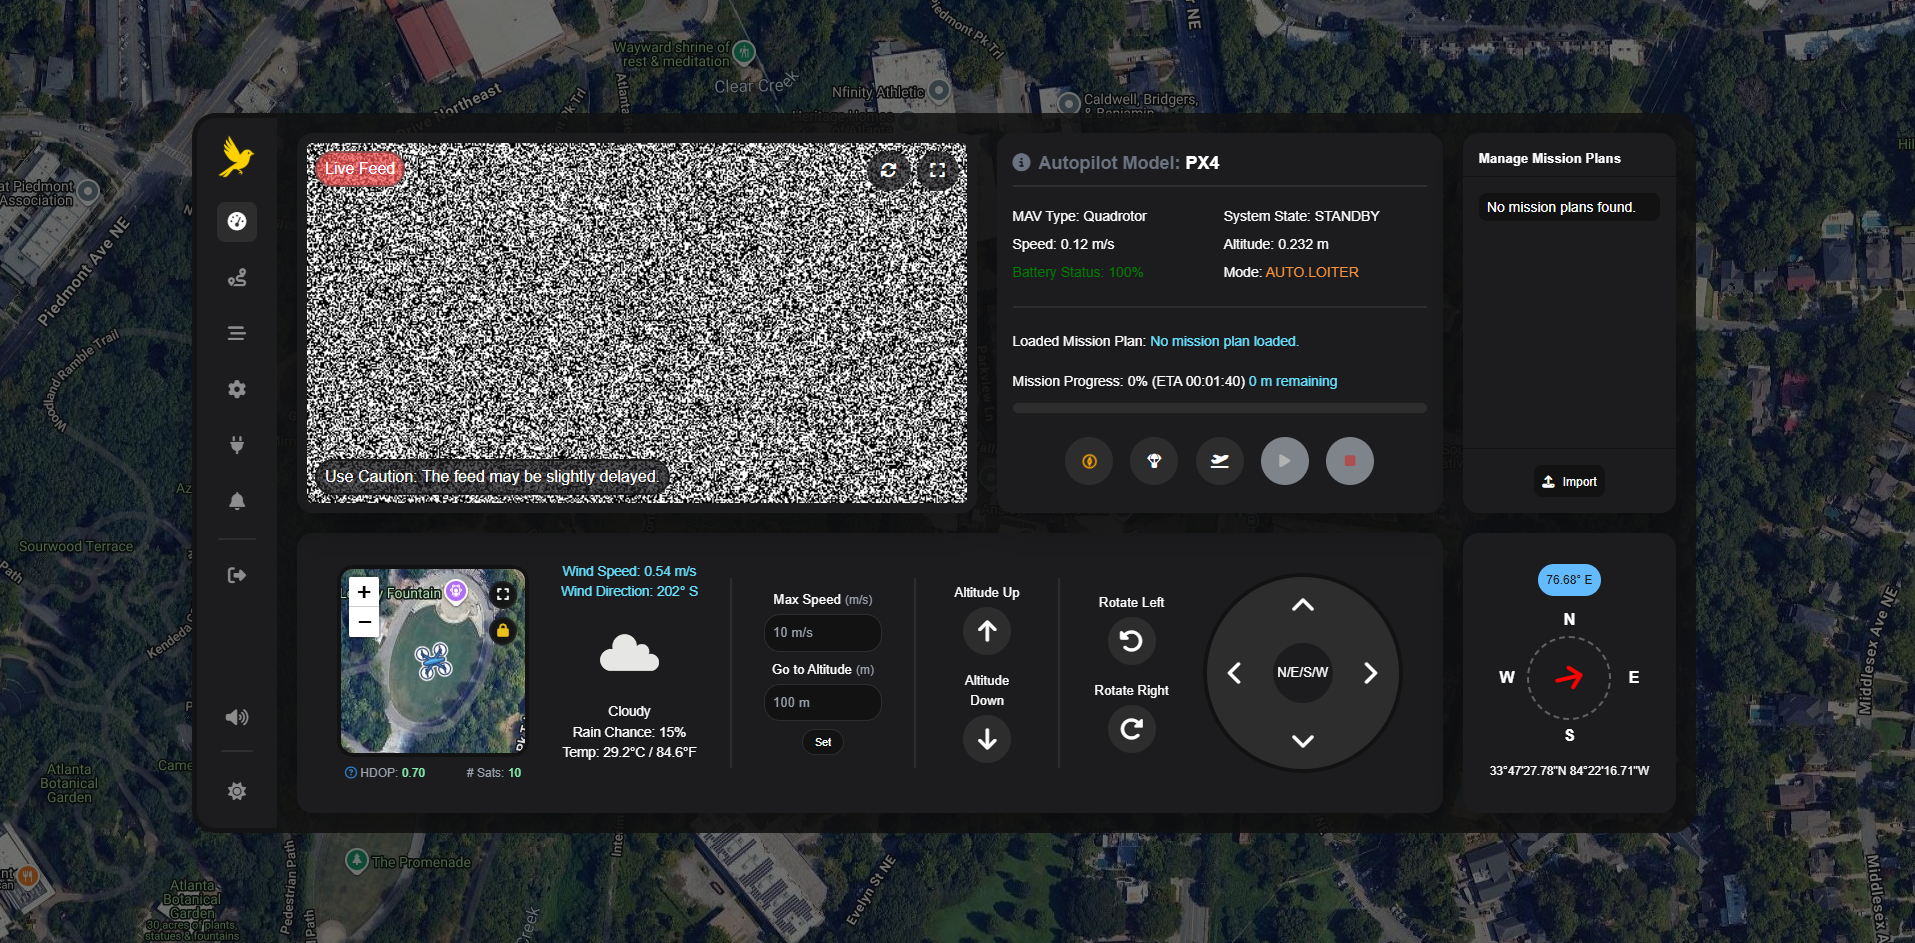
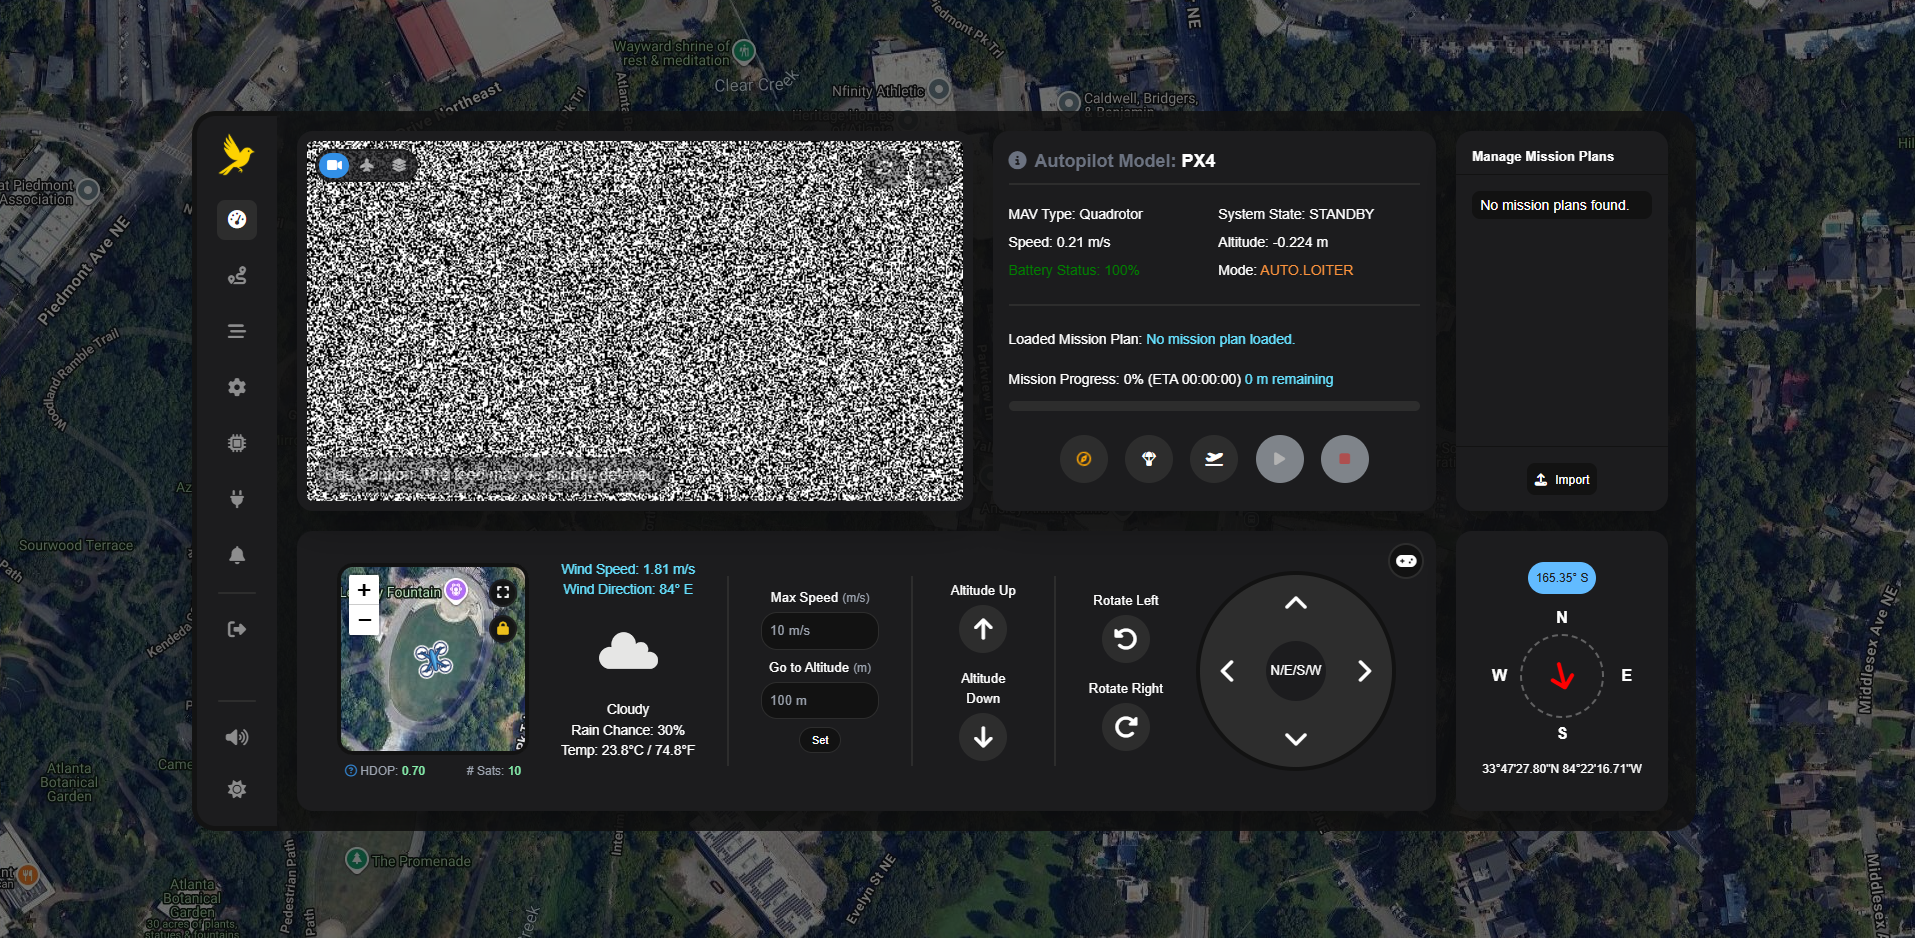
docs(readme): streamline features, add a TLDR, link the build guide
The intro carries a one-line TLDR under the dashboard image and a link to the hardware build guide under the how-it-works diagram. The features list drops the implementation asides and tightens the longest entries, and the early-development note drops its readiness claim. The dashboard and planner screenshots are refreshed.

diff --git a/README.md b/README.md
@@ -1,6 +1,6 @@
 <div align="center">
 
-<span style="color: red;">⚠️ **Warning**: This project is in **early development** and is not yet ready for production use. Use at your own risk! **It is your responsibility** to understand the risks involved as well as the **laws and regulations** governing the use of unmanned aerial vehicles (UAVs) in your area. ⚠️</span>
+<span style="color: red;">⚠️ **Warning**: This project is in **early development**. Use at your own risk! **It is your responsibility** to understand the risks involved as well as the **laws and regulations** governing the use of unmanned aerial vehicles (UAVs) in your area. ⚠️</span>
 
 <img src="compose/svelte-kit/static/logo.png" alt="Canary Ground Control Logo" width="100"/>
 
@@ -15,6 +15,8 @@ A web-based ground control station (GCS) for remote autopilot management via the
 
 <img src="screenshots/dashboard.png" alt="Illustration" width="auto"/>
 
+**TL;DR:** A ground control station that runs on the drone's Raspberry Pi, so you fly and monitor it from any browser over the internet.
+
 </div>
 
 ---
@@ -25,19 +27,21 @@ Unlike traditional GCS software, Canary Ground Control is a web-based applicatio
 
 ![Diagram](screenshots/diagram.png)
 
+The reference hardware build (Raspberry Pi 4B, Holybro S500 V2, camera, and 4G modem) is documented in the [Build guide](https://github.com/judahpaul16/canarygc/wiki/Build).
+
 ---
 
 ## ✨ Features
 
 * **Live telemetry & control** over MAVLink: attitude, position, battery, GPS, flight-mode changes, arm/disarm, and a virtual D-Pad.
 * **ArduPilot and PX4 support.** Flight-mode encoding and decoding is selected per autopilot through a strategy layer, so mode changes and armed-state readouts work on both stacks.
-* **Mission planner** with a 2D map (Leaflet) and a 3D map (MapLibre). One persistent map renders behind every page; the planner and the dashboard mini-map are live windows into it, and fullscreen expands the same map. Spline waypoint legs draw the curved hermite path ArduPilot actually flies, and the map toggles (overlays, view lock, street/satellite/3D) are remembered for the browser session.
+* **Mission planner** with a 2D map (Leaflet) and a 3D map (MapLibre). A single persistent map renders behind every page; the planner and dashboard mini-map are windows into it, and fullscreen expands the same map. Waypoint legs draw as smooth curves, and the map toggles (overlays, view lock, street/satellite/3D) persist for the browser session.
 * **Configurable basemaps.** Light, dark, and hybrid-satellite tiles resolve from a MapTiler key (with keyless fallbacks), and the map swaps to a real dark basemap when the theme toggles. Each mode's tile source is overridable in Integrations with a preset dropdown or a custom XYZ URL.
 * **Cross-autopilot missions.** A plan is stored autopilot-neutral and normalized to the connected stack on upload: ArduPilot runs the full command set, and PX4 substitutes or skips commands it cannot run and reports what changed.
 * **Mission import.** Load QGroundControl `.plan` and Mission Planner `.waypoints` (QGC WPL) files, or the app's own JSON, straight into the planner.
 * **Mission patterns.** Survey and orbit generators in the planner: click an area's corners for serpentine survey transects at a chosen spacing, grid angle, and altitude, or click a center for a waypoint ring at a chosen radius, modeled on QGroundControl's Survey and Orbit patterns.
-* **Gamepad flight.** A toggle on the dashboard Controls card and in the fullscreen manual-control dock streams a connected gamepad as MAVLink `MANUAL_CONTROL` (Mode 2 sticks, 20 Hz, hover-centered thrust), with a connect dialog that walks pairing and previews live stick input. Enabling in flight switches the vehicle to its stick-flying mode (PX4 Position, ArduPilot Loiter), and ending the stream, by toggle or disconnect, hands it straight to an autonomous hold.
-* **Smart path optimization.** One click routes the mission clear of hazards without changing the waypoint order. It pulls FAA obstacles and OpenStreetMap building heights for the mission area and, where a leg would strike one, raises the leg to clear it when the ceiling allows or routes around it when it is too tall. Restricted airspace is always routed around, and a waypoint inside it is moved out. The map overlays refetch as you pan, and the airspace, hazard, and building lookups are cached per area.
+* **Gamepad flight.** A toggle streams a connected gamepad as MAVLink `MANUAL_CONTROL` (Mode 2 sticks, 20 Hz, hover-centered thrust), with a connect dialog that previews live stick input. Enabling in flight switches the vehicle to its stick-flying mode (PX4 Position, ArduPilot Loiter); ending the stream hands it back to an autonomous hold.
+* **Smart path optimization.** One click routes the mission clear of hazards without reordering waypoints: it raises legs over FAA obstacles and OpenStreetMap buildings when the ceiling allows, routes around them when it does not, and always routes around restricted airspace. Overlays refetch as you pan and lookups are cached per area.
 * **Airspace overlays.** Both the 2D and 3D maps draw restricted and controlled airspace for the mission area, toggled from a map control, with a popup for each zone's class, altitude band, and operating implication. Worldwide coverage comes from [OpenAIP](https://www.openaip.net) with a key; without one it falls back to the FAA's keyless public airspace layers (US).
 * **LAANC ceilings and obstacles.** Two more toggleable overlays on both maps from the FAA's keyless layers: the UAS Facility Map grid colored by each square's pre-approved ceiling, and Digital Obstacle File towers and structures colored by height, each with plain-language popups.
 * **Live air traffic.** A toggleable ADS-B layer on both maps draws nearby aircraft with heading, altitude, and speed, merging traffic reported by the vehicle's onboard receiver (`ADSB_VEHICLE`) with keyless community network feeds (adsb.lol, adsb.fi).